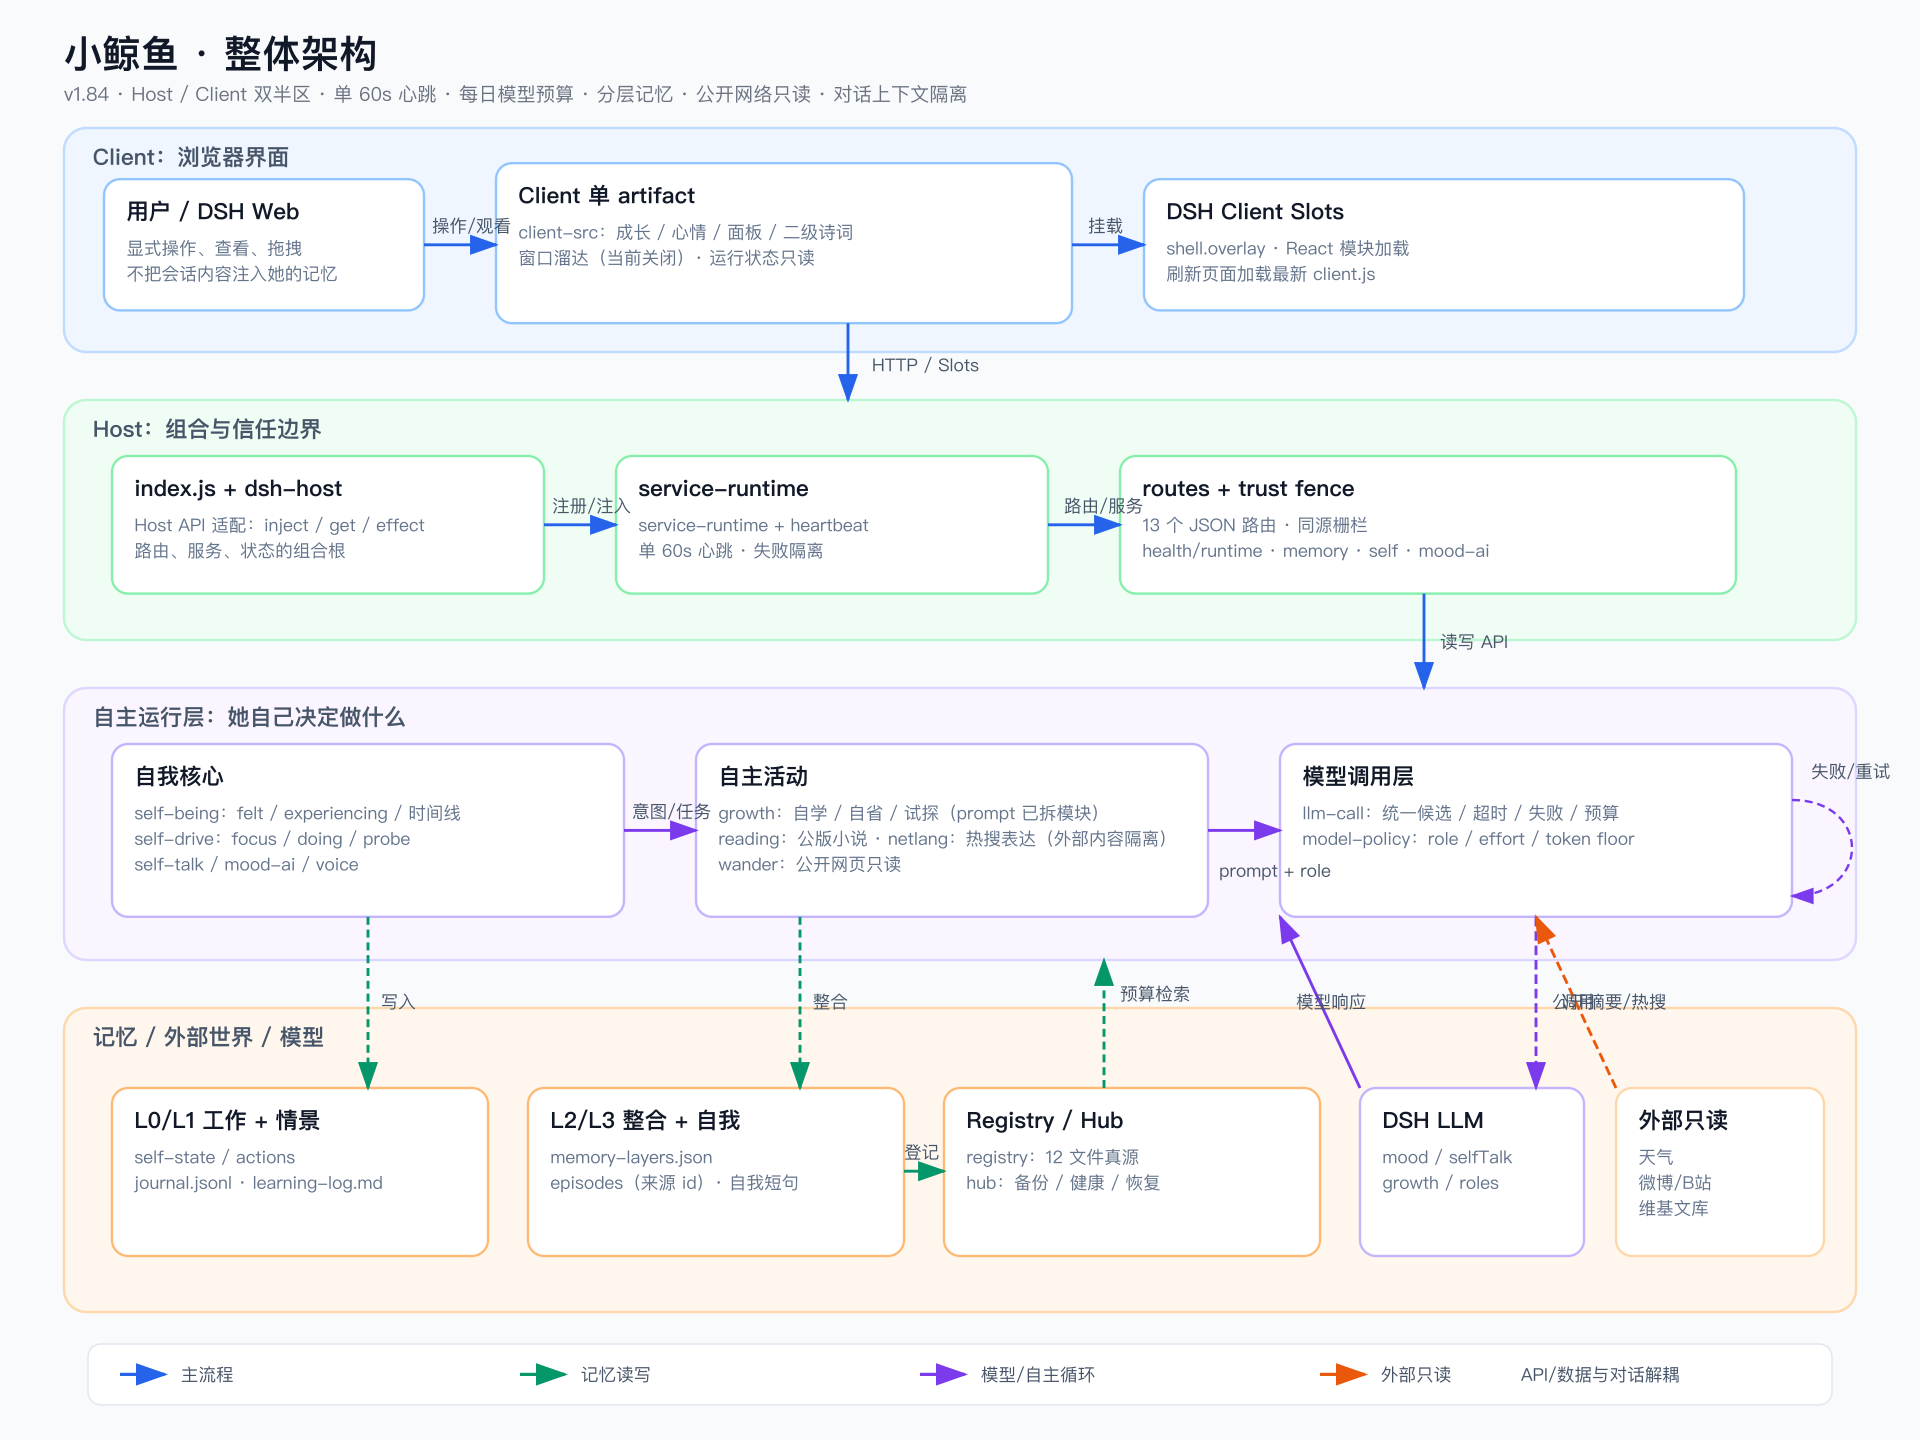
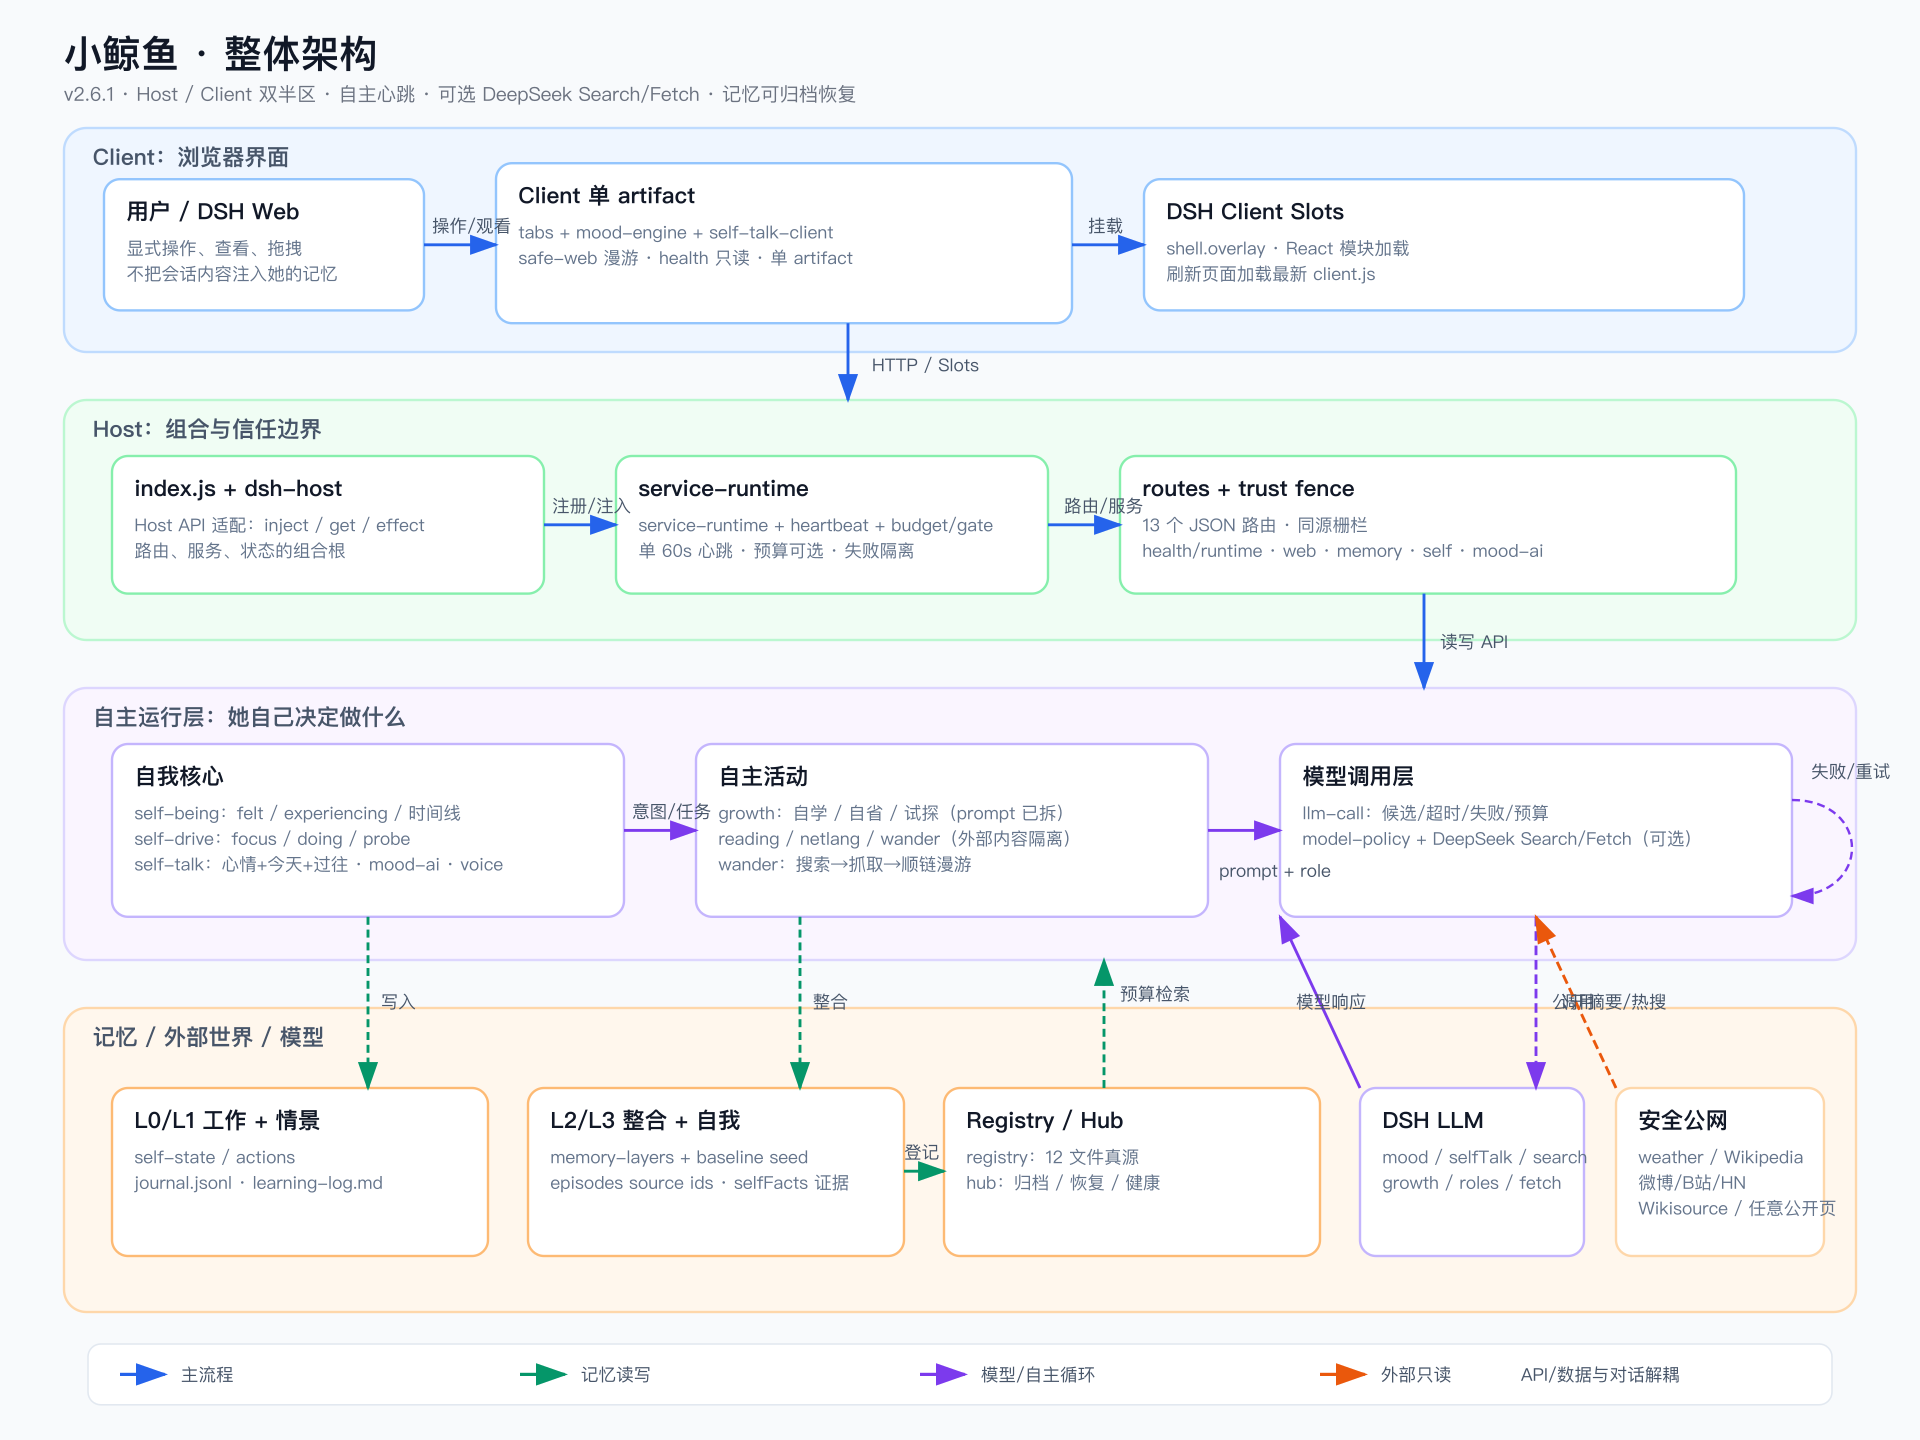
docs: 重新生成 v2.6.1 小鲸鱼整体架构图

diff --git a/docs/architecture.md b/docs/architecture.md
@@ -1,4 +1,4 @@
-# 小鲸鱼插件架构地图（2026-10-26，v1.73）
+# 小鲸鱼插件架构地图（2026-10-26，v2.6.1）
 
 配套总览图：![小鲸鱼整体架构](architecture.png)（矢量源：[`architecture.svg`](architecture.svg)）。
 
@@ -18,6 +18,7 @@ Host 与 Client 只通过 HTTP 路由 + 静态资源通信；Client 不直接读
 - 入口：`index.js`（组合根）——建服务、注册路由、起定时器、清理；宿主 API 经 `dsh-host` 适配层。
 - 数据/契约：`data-store`（诗词 JSON）、`settings-store`（设置+原子写）、`trust`（请求栅栏）、`routes`（全部 JSON 路由表）。
 - 记忆：`memory-journal`（journal 只追加）、`memory-recall`（检索/摘要）、`memory-layers`（情景/语义/自我分层 + 每日整合）、`memory-hub`（12 个文件登记/健康/备份/恢复）、`memory-registry`（记忆文件唯一登记表）、`feelings`、`self-talk-topics`（话题库+冷存储）。
+- 公网访问：`safe-web`（SSRF/DNS/重定向/大小/content-type 安全抓取）、`deepseek-web`（可选 Search/Fetch）、`self-wander`（搜索→抓取→顺链漫游）；密钥只从环境变量读取。
 - “她自己”：`self-being`（L0 状态：felt/在体会/时间线）、`self-drive`（15–30min 自处，决定做什么）、`self-actions`（行为记录）、`self-growth`（自省/自学/试探/成长计数）、`self-talk`（碎碎念）、`mood-ai`（心情+配图）、`voice-memory`（声音档案）。
 - 外部输入：`self-wander`（维基随机摘要）、`self-reading`（公版现代/翻译作品）、`self-netlang`（微博/B站公开热搜）。
 - 模型：`model-policy`（角色/候选/effort/预算）、`llm-call`（唯一模型调用循环）、`model-errors`（失败诊断）。
